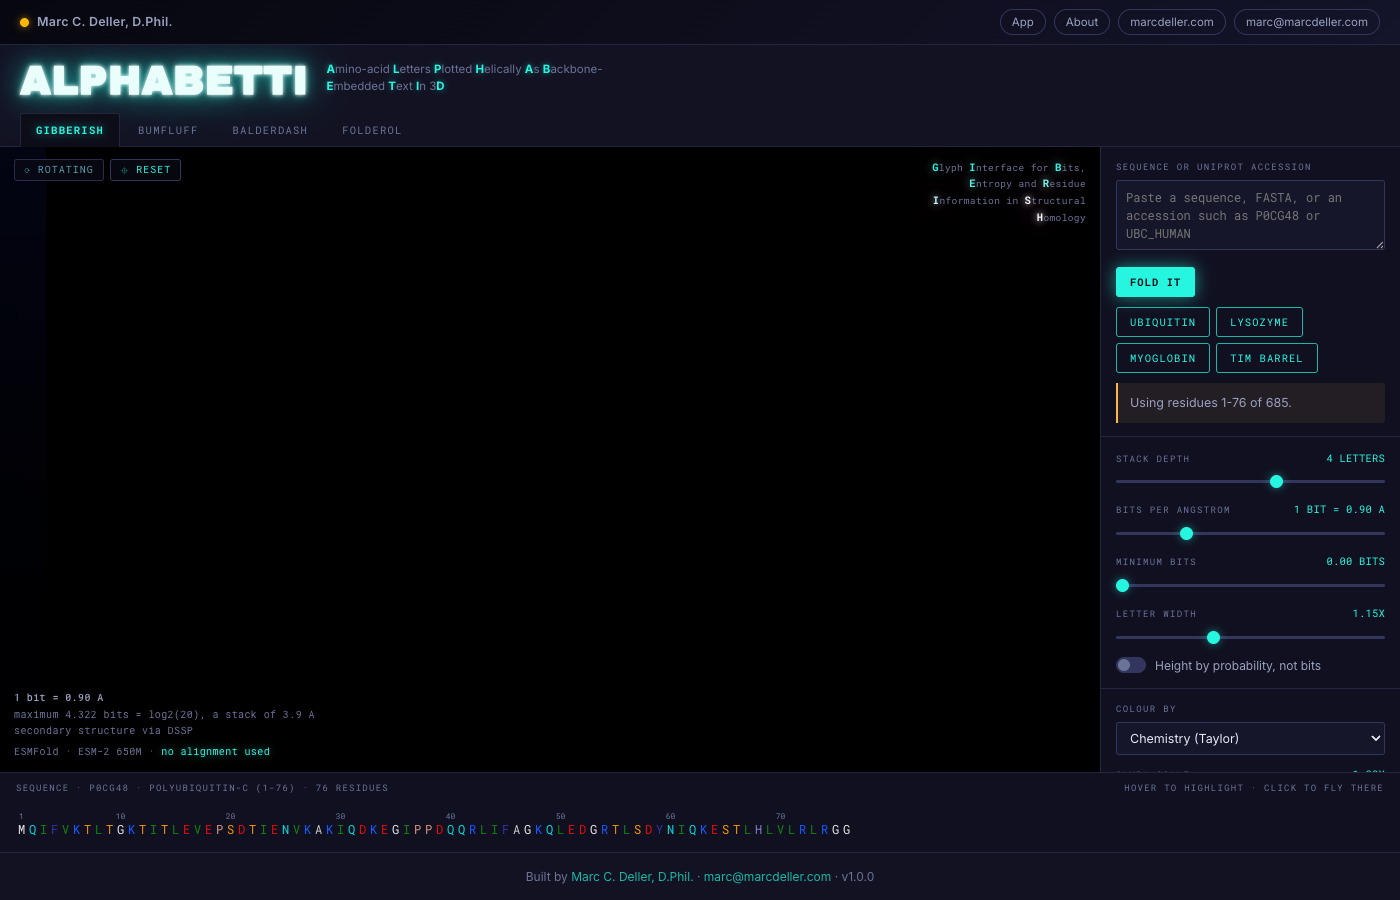
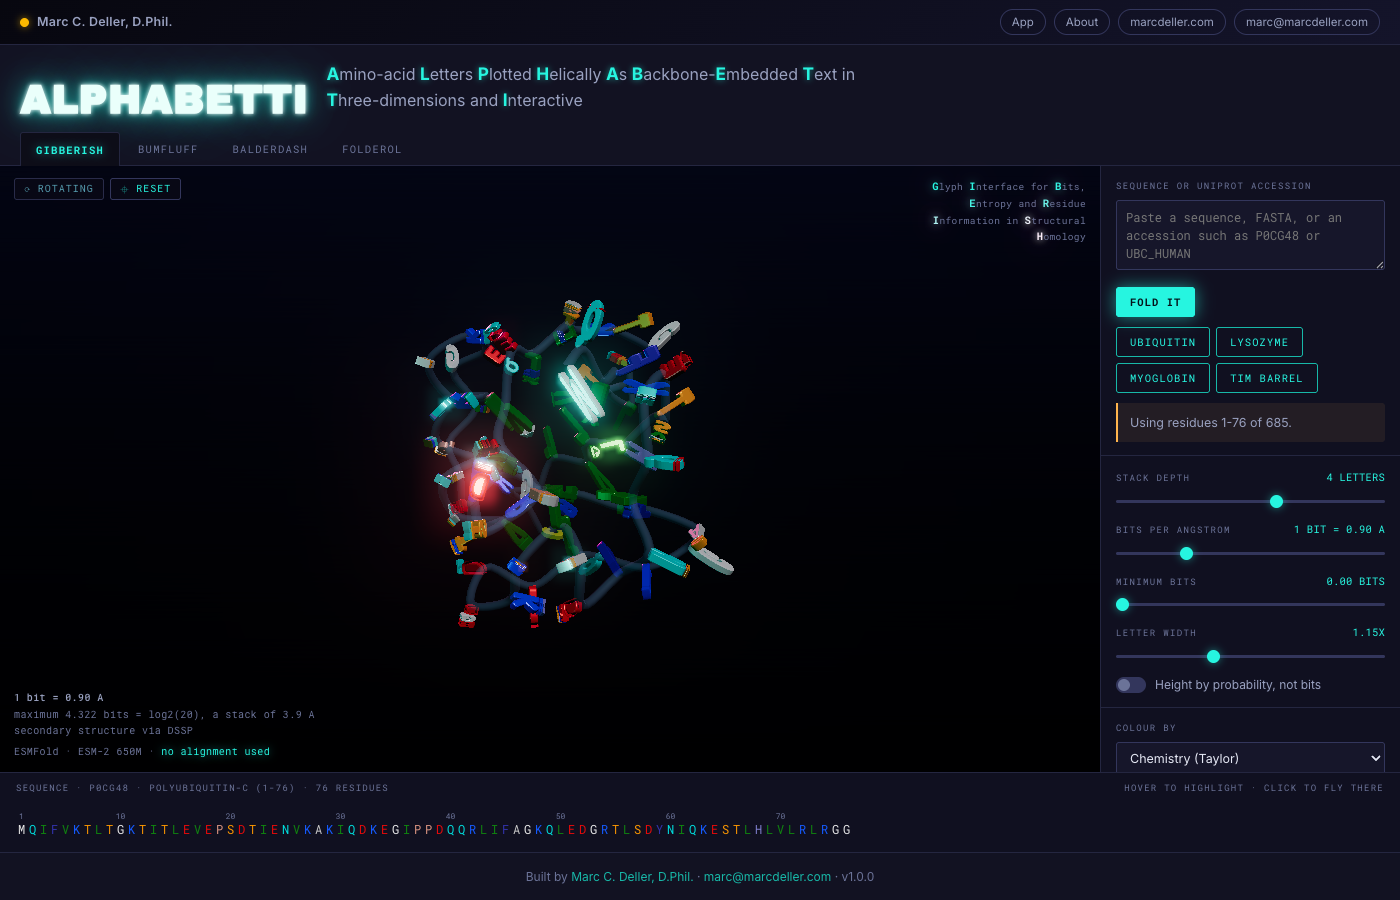
Strapline: spell the backronym out in full, and set it big enough to read
"... Text In 3D" becomes "... Text in Three-dimensions and Interactive", so the
last two letters of ALPHABETTI are words rather than a numeral and a glyph. The
highlighted capitals still spell the name exactly, and there are still ten of
them, which is what the ignition stagger is written for.

Sized against the wordmark with a clamp rather than fixed at 11.5px. It carries
the only explanation of what the name means and was set small enough to read as
decoration. The initials get a further 1.08em so the acronym lifts out of the
sentence without waiting for the animation to come round.

Also in the package docstring and the README, so the three places that state it
agree.

Claude-Session: https://claude.ai/code/session_01JXK6K3w7veJUN5XKU7TaBf

Changed region(s): [[0.0, 0.0622, 1.0, 0.8711], [0.2764, 0.3111, 0.5221, 0.7156]]

diff --git a/static/css/alphabetti.css b/static/css/alphabetti.css
@@ -156,10 +156,21 @@ img, canvas, svg { max-width: 100%; }
    Never text-transform this: uppercasing it deletes the only place the
    acronym is spelled out. */
 .strapline {
-  font-size: 11.5px; line-height: 1.45; color: var(--ne-fg-faint);
-  padding-bottom: 4px; margin: 0; max-width: 46ch;
+  /* Sized against the wordmark rather than fixed, so the two stay in
+     proportion as the masthead scales. It carries the whole backronym, which
+     is the only place the name is explained, so it had been set too small to
+     be read at a glance. */
+  font-size: clamp(13px, 1.15vw, 16px);
+  line-height: 1.5;
+  color: var(--ne-fg-dim);
+  padding-bottom: 5px; margin: 0; max-width: 58ch;
 }
-.strapline b { color: var(--ne-cyan); font-weight: 700; }
+.strapline b {
+  color: var(--ne-cyan); font-weight: 700;
+  /* A shade larger again than the words around it, so the acronym reads out of
+     the sentence without needing the animation to have run. */
+  font-size: 1.08em;
+}
 
 .tabs { display: flex; gap: 2px; margin-top: 14px; flex-wrap: wrap; }
 .tab {

diff --git a/templates/index.html b/templates/index.html
@@ -28,7 +28,8 @@
            Each <b> is a neon tube that strikes in turn; see .ignite in the CSS. -->
       <p class="strapline ignite">
         <b>A</b>mino-acid <b>L</b>etters <b>P</b>lotted <b>H</b>elically
-        <b>A</b>s <b>B</b>ackbone-<b>E</b>mbedded <b>T</b>ext <b>I</b>n 3<b>D</b>
+        <b>A</b>s <b>B</b>ackbone-<b>E</b>mbedded <b>T</b>ext in
+        <b>T</b>hree-dimensions and <b>I</b>nteractive
       </p>
     </div>
     <!-- The backronyms used to live here and made the strip 90px tall. They are

diff --git a/templates/about.html b/templates/about.html
@@ -8,7 +8,8 @@
       <h1 class="wordmark">ALPHABETTI</h1>
       <p class="strapline">
         <b>A</b>mino-acid <b>L</b>etters <b>P</b>lotted <b>H</b>elically
-        <b>A</b>s <b>B</b>ackbone-<b>E</b>mbedded <b>T</b>ext <b>I</b>n 3<b>D</b>
+        <b>A</b>s <b>B</b>ackbone-<b>E</b>mbedded <b>T</b>ext in
+        <b>T</b>hree-dimensions and <b>I</b>nteractive
       </p>
     </div>
     <div class="tabs"><a class="tab" href="/">Back to the app</a></div>

diff --git a/alphabetti/__init__.py b/alphabetti/__init__.py
@@ -1,4 +1,5 @@
-"""ALPHABETTI: Amino-acid Letters Plotted Helically As Backbone-Embedded Text In 3D.
+"""ALPHABETTI: Amino-acid Letters Plotted Helically As Backbone-Embedded Text
+in Three-dimensions and Interactive.
 
 The package splits into three kinds of module, and the split is deliberate:
 

diff --git a/README.md b/README.md
@@ -1,5 +1,7 @@
 # 🔤 ALPHABETTI
 
+**A**mino-acid **L**etters **P**lotted **H**elically **A**s **B**ackbone-**E**mbedded **T**ext in **T**hree-dimensions and **I**nteractive
+
 > **A protein sequence logo, in three dimensions, wrapped around its own predicted structure.**
 
 [![live](https://img.shields.io/badge/live-alphabetti.mdeller.com-00d084?logo=icloud&logoColor=white)](https://alphabetti.mdeller.com)
